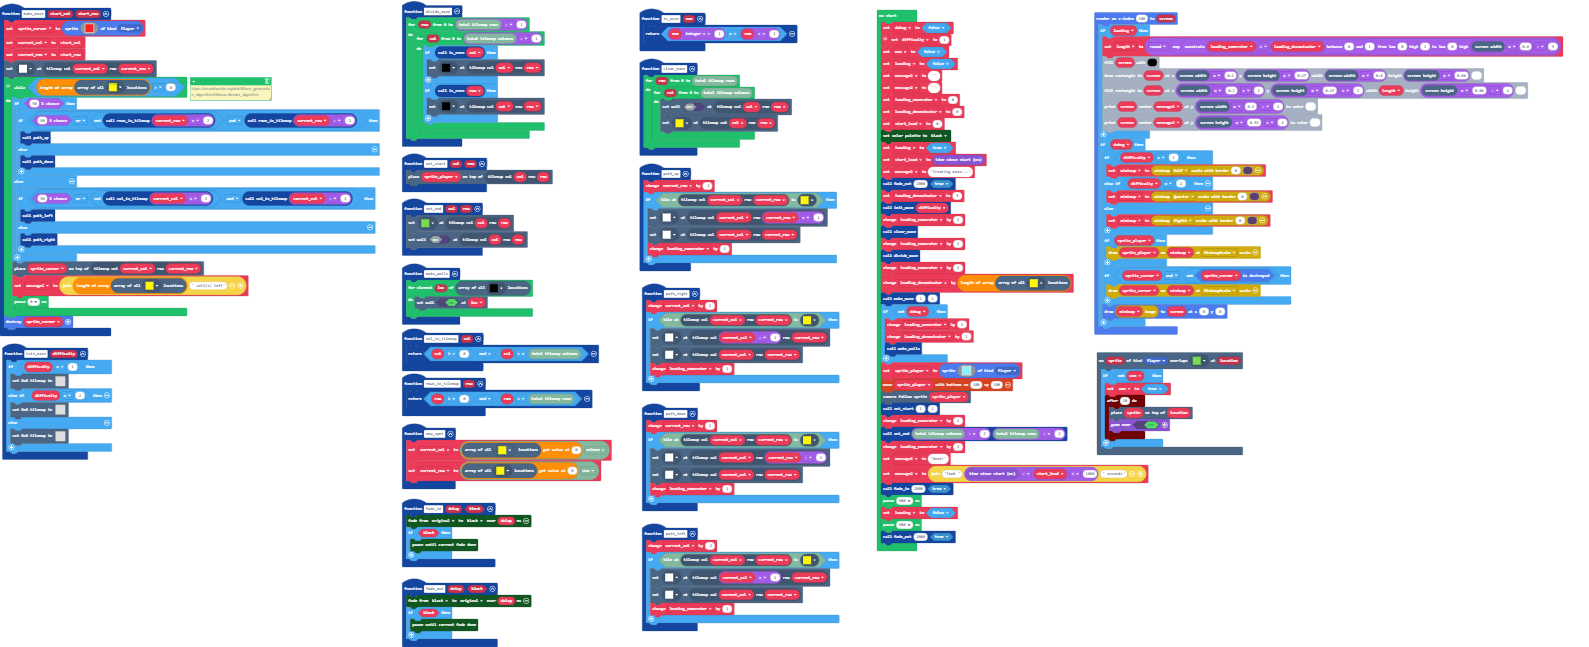
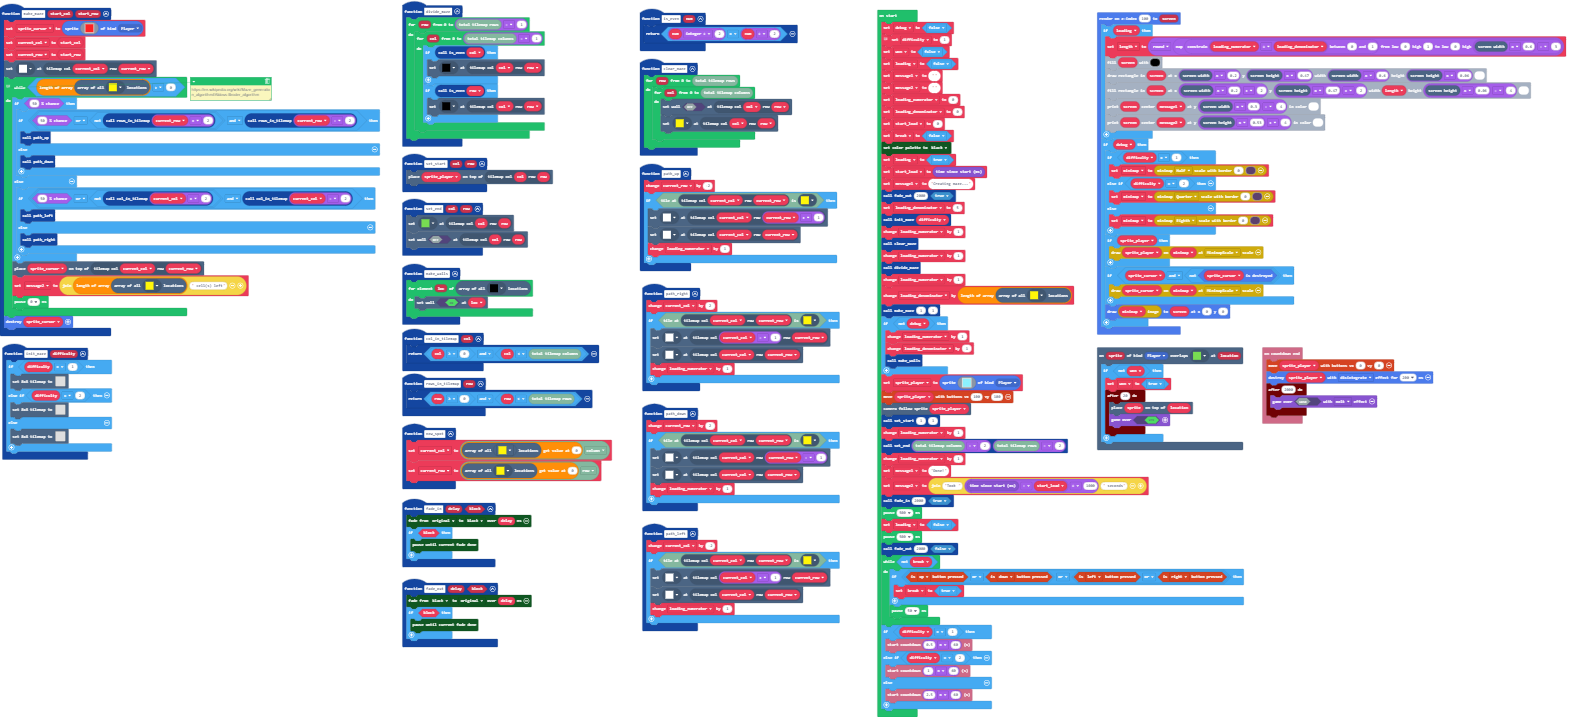
Start countdown when you move

diff --git a/main.ts b/main.ts
@@ -163,6 +163,13 @@ function set_end (col: number, row: number) {
     tiles.setTileAt(tiles.getTileLocation(col, row), myTiles.tile8)
     tiles.setWallAt(tiles.getTileLocation(col, row), false)
 }
+info.onCountdownEnd(function () {
+    controller.moveSprite(sprite_player, 0, 0)
+    sprite_player.destroy(effects.disintegrate, 200)
+    timer.after(2000, function () {
+        game.over(false, effects.melt)
+    })
+})
 function fade_in (delay: number, block: boolean) {
     color.startFade(color.originalPalette, color.Black, delay)
     if (block) {
@@ -302,6 +309,7 @@ message2 = ""
 loading_numerator = 0
 loading_denominator = 0
 let start_load = 0
+let _break = false
 color.setPalette(
 color.Black
 )
@@ -343,4 +351,17 @@ fade_in(2000, true)
 pause(500)
 loading = false
 pause(500)
-fade_out(2000, true)
+fade_out(2000, false)
+while (!(_break)) {
+    if (controller.up.isPressed() || controller.down.isPressed() || (controller.left.isPressed() || controller.right.isPressed())) {
+        _break = true
+    }
+    pause(50)
+}
+if (difficulty == 1) {
+    info.startCountdown(0.5 * 60)
+} else if (difficulty == 2) {
+    info.startCountdown(1 * 60)
+} else {
+    info.startCountdown(2.5 * 60)
+}
